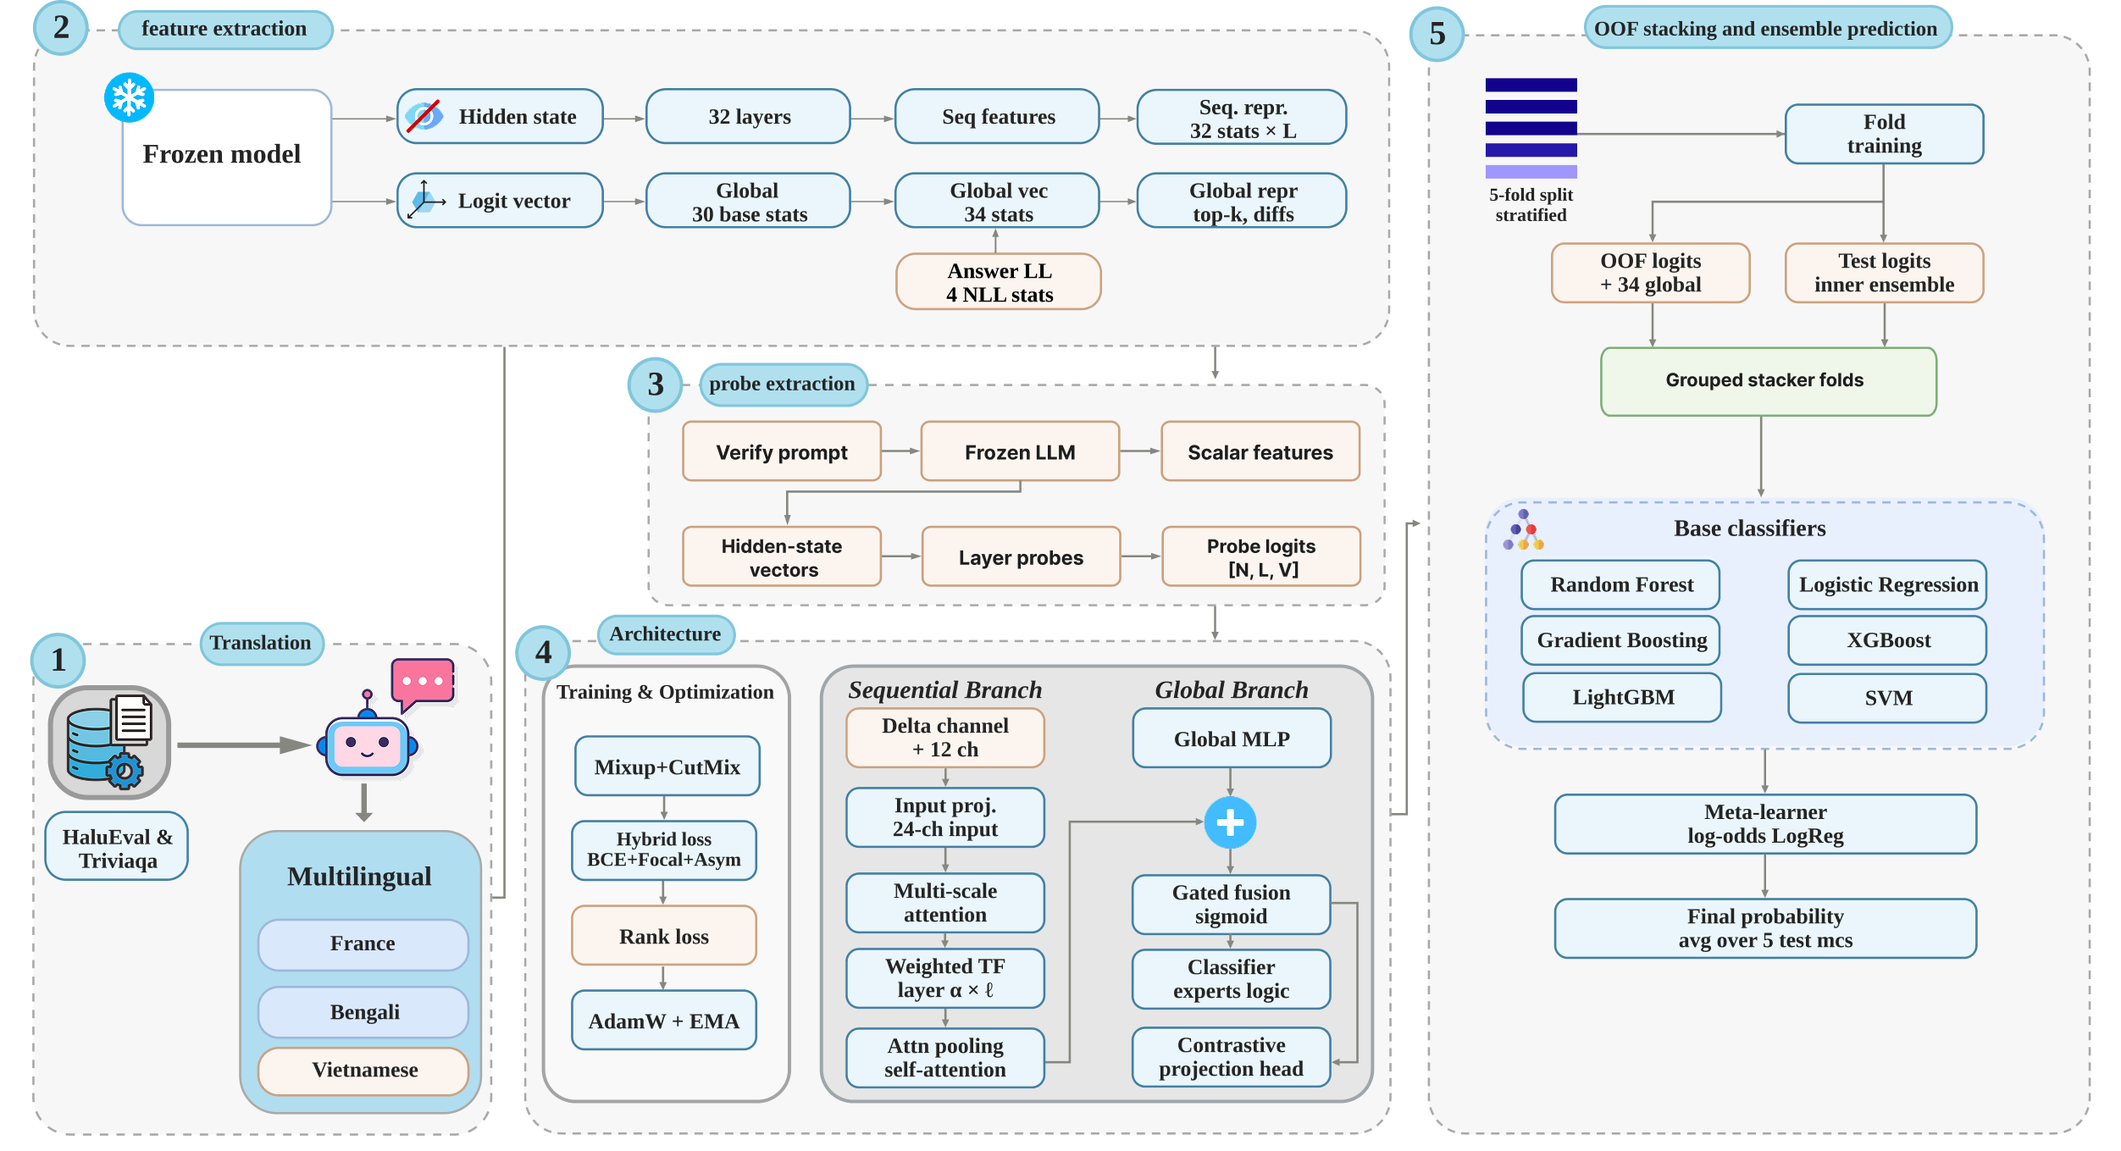
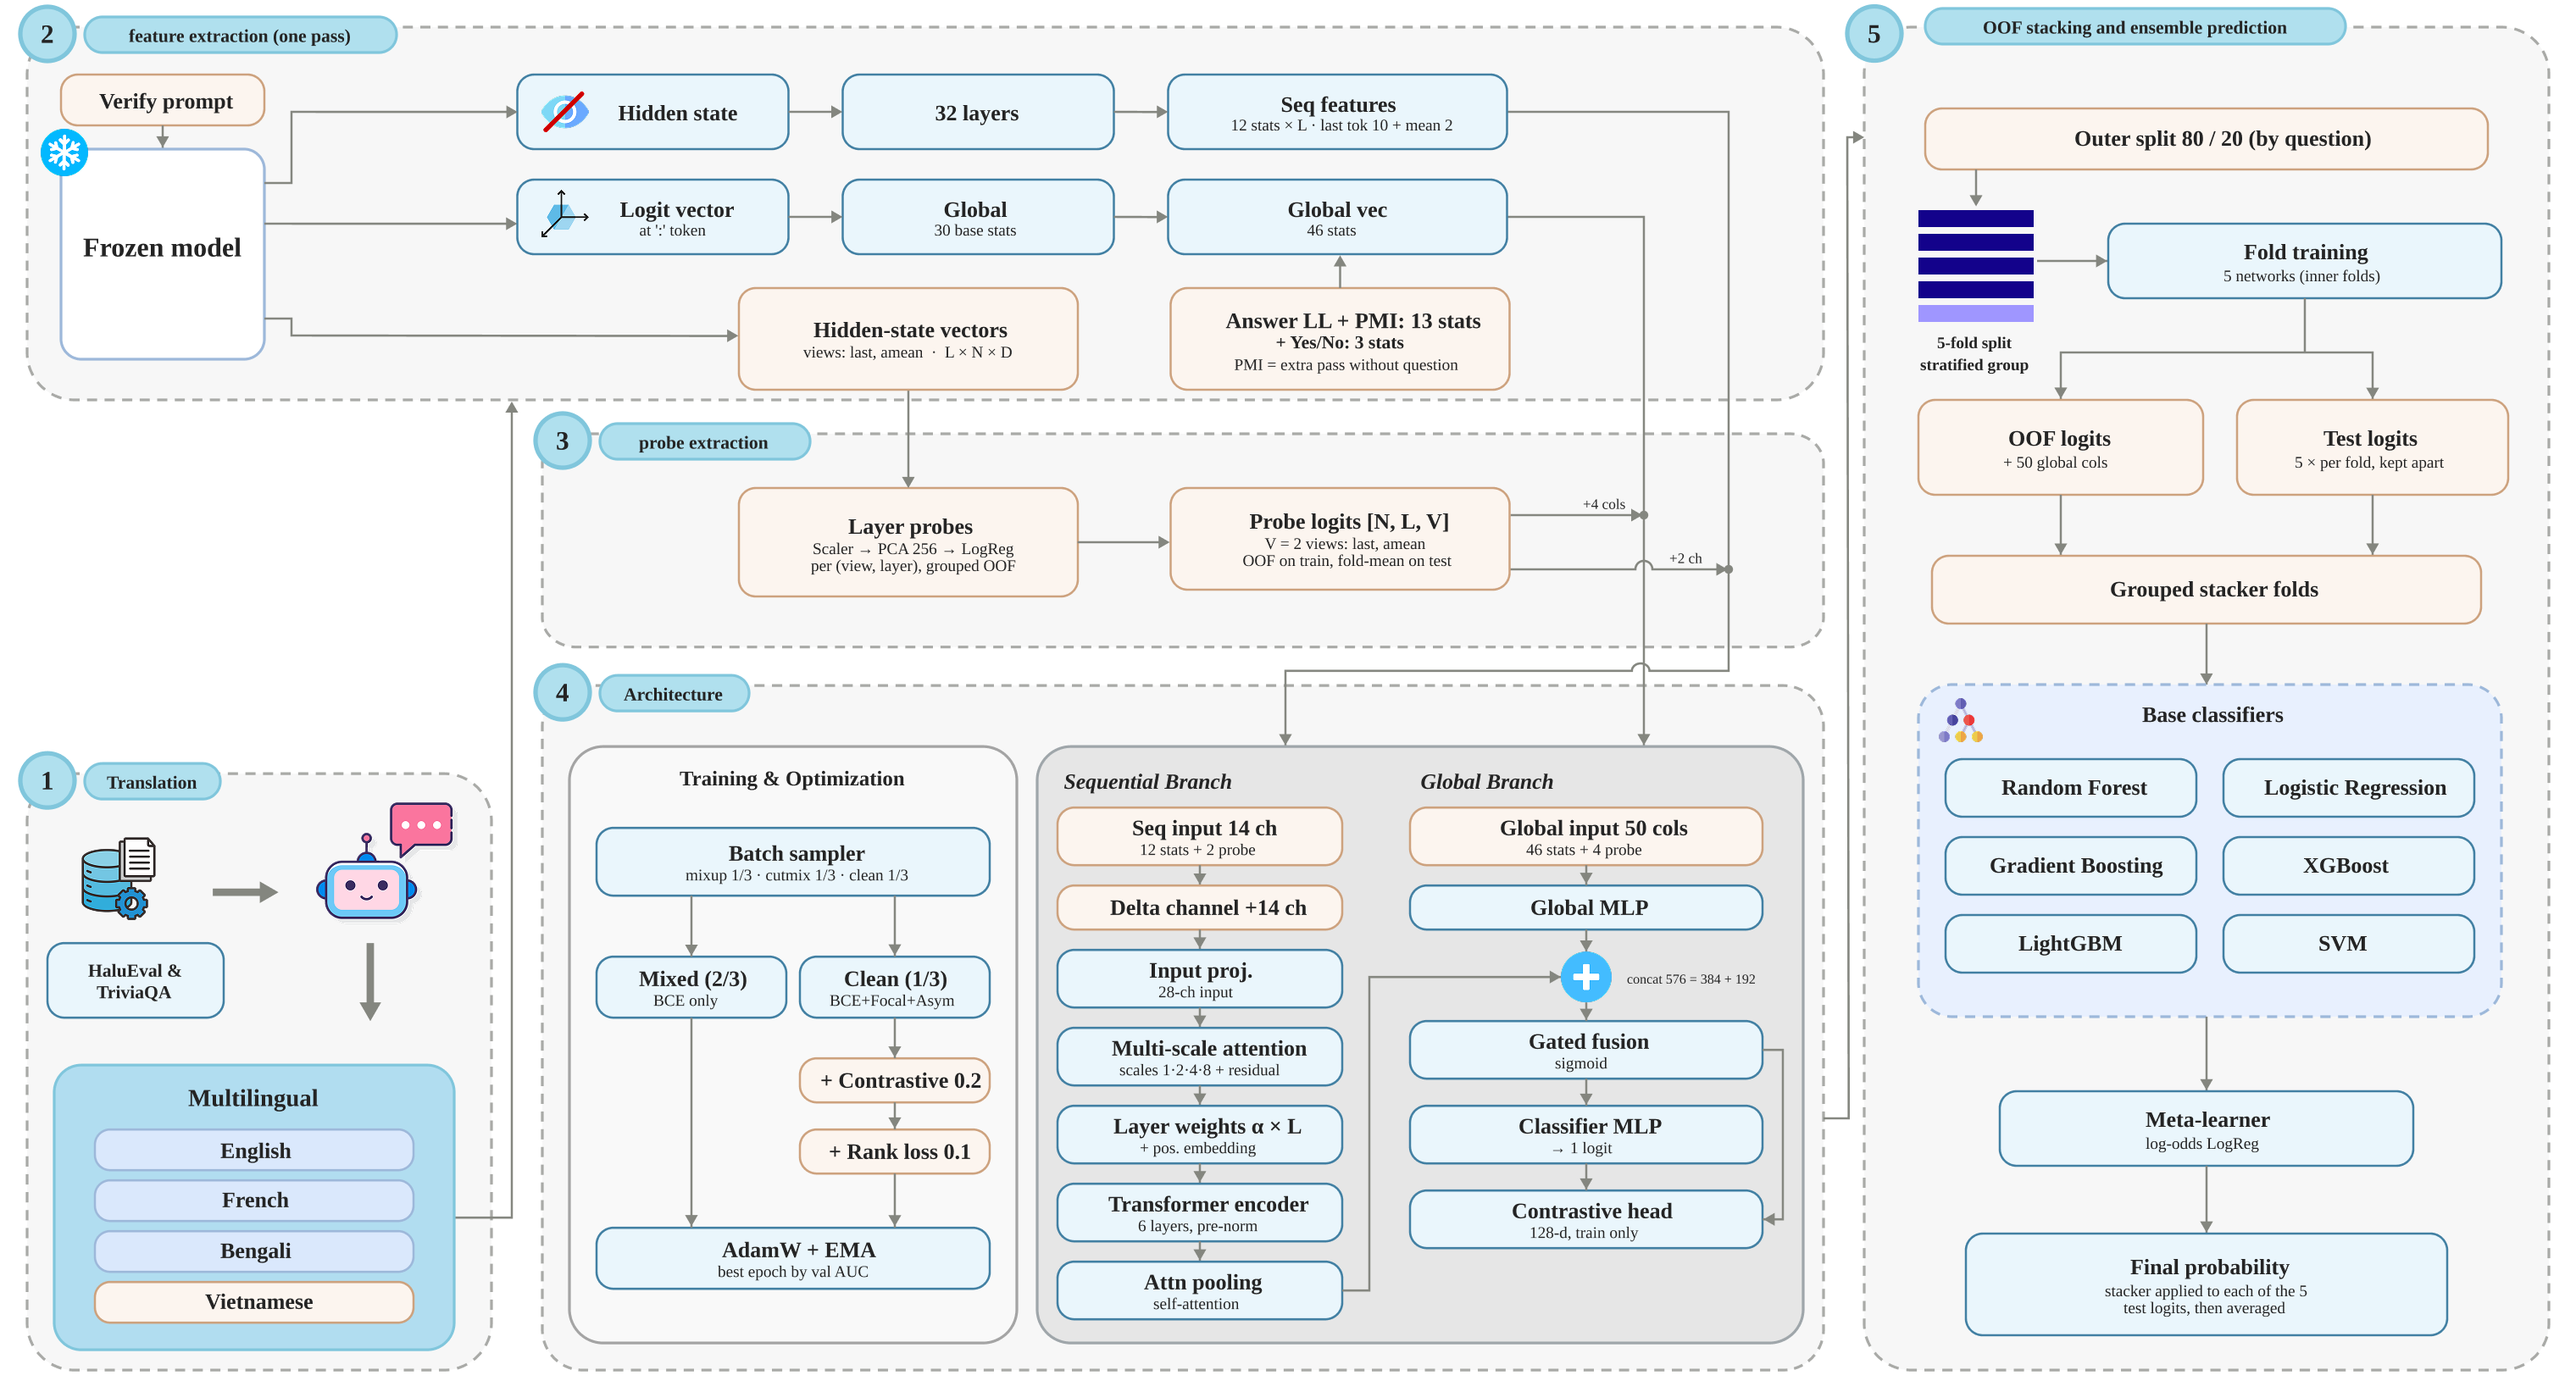
update something

Changed region(s): [[0.0, 0.0, 0.9657, 0.989], [0.0, 0.0, 0.1869, 0.2472], [0.7476, 0.7726, 0.9345, 0.989]]

diff --git a/src/ensemble/meta_learner.py b/src/ensemble/meta_learner.py
@@ -13,7 +13,7 @@ import xgboost as xgb
 import lightgbm as lgb
 
 # Classifiers that use one core per fit; their 6 fits run in separate processes.
-SINGLE_CORE = {'svm'}
+SINGLE_CORE = {'svm', 'lr'}
 
 def _log_odds(clf, X):
     """Meta-learner input: the SVC margin as it is, the logit of the probability otherwise."""
